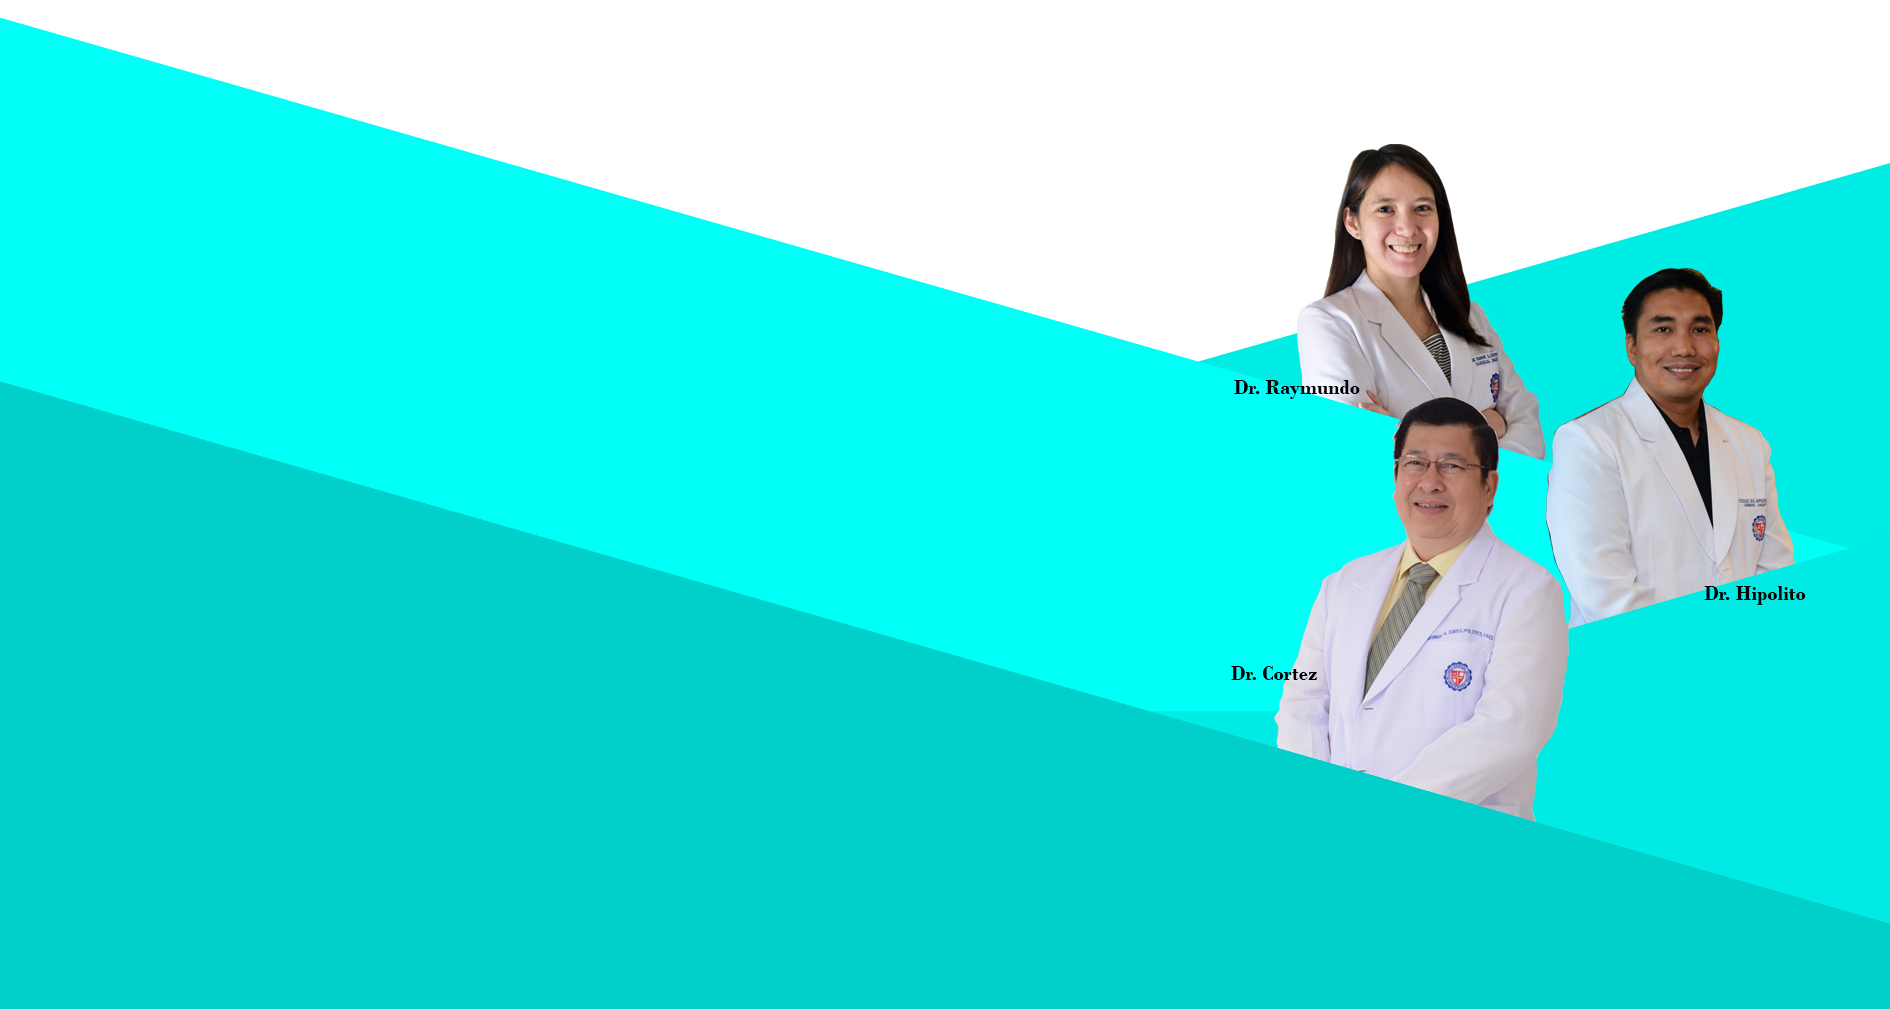
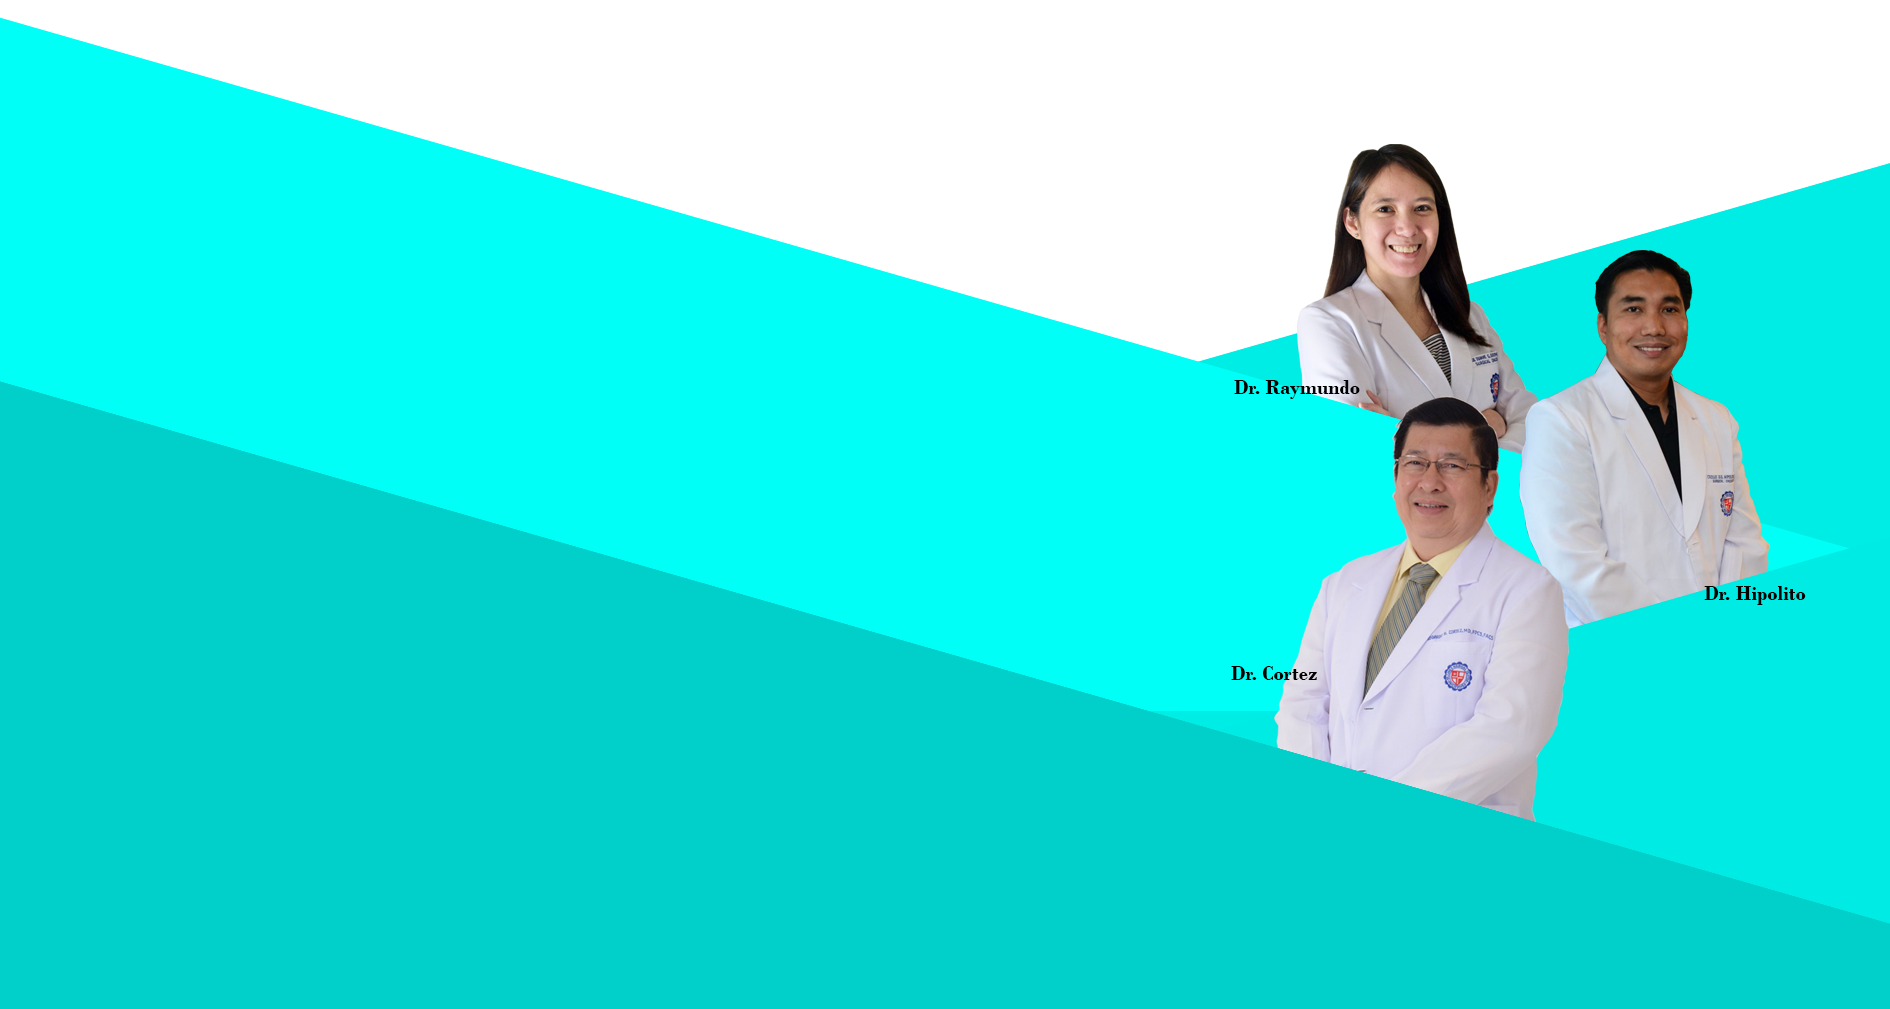
refined Doc Hipolito pic

Changed region(s): [[0.7804, 0.2458, 0.9677, 0.6145]]

diff --git a/src/components/Hero.jsx b/src/components/Hero.jsx
@@ -15,7 +15,7 @@ const Hero = () => {
         alt="Hero Background"
       />
 
-      <div className="py-40 px-10 mt-10  md:p-20">
+      <div className="py-40 px-10  md:p-20">
         <div className="flex mx-auto items-center lg:items-start">
           <div className="mx-auto text-center md:text-start md:mt-10 md:ml-20">
             <h1 className="text-5xl font-semibold mb-5 pt-10 md:pt-20 md:text-black md:pr-60 md:mr-80 font-montserrat">
